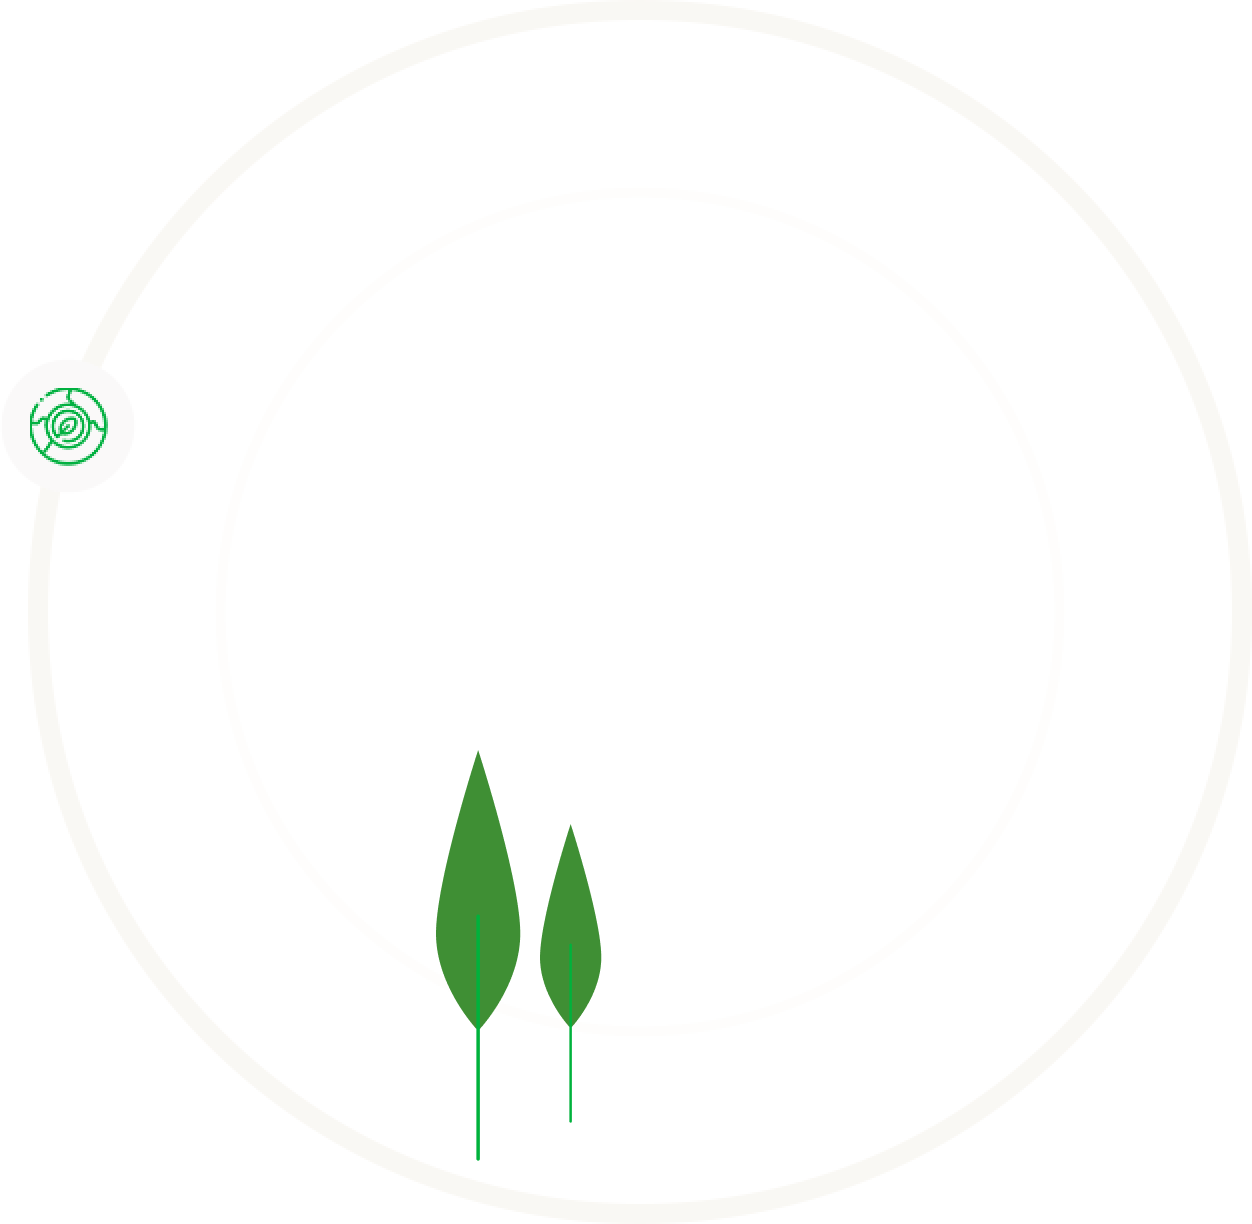
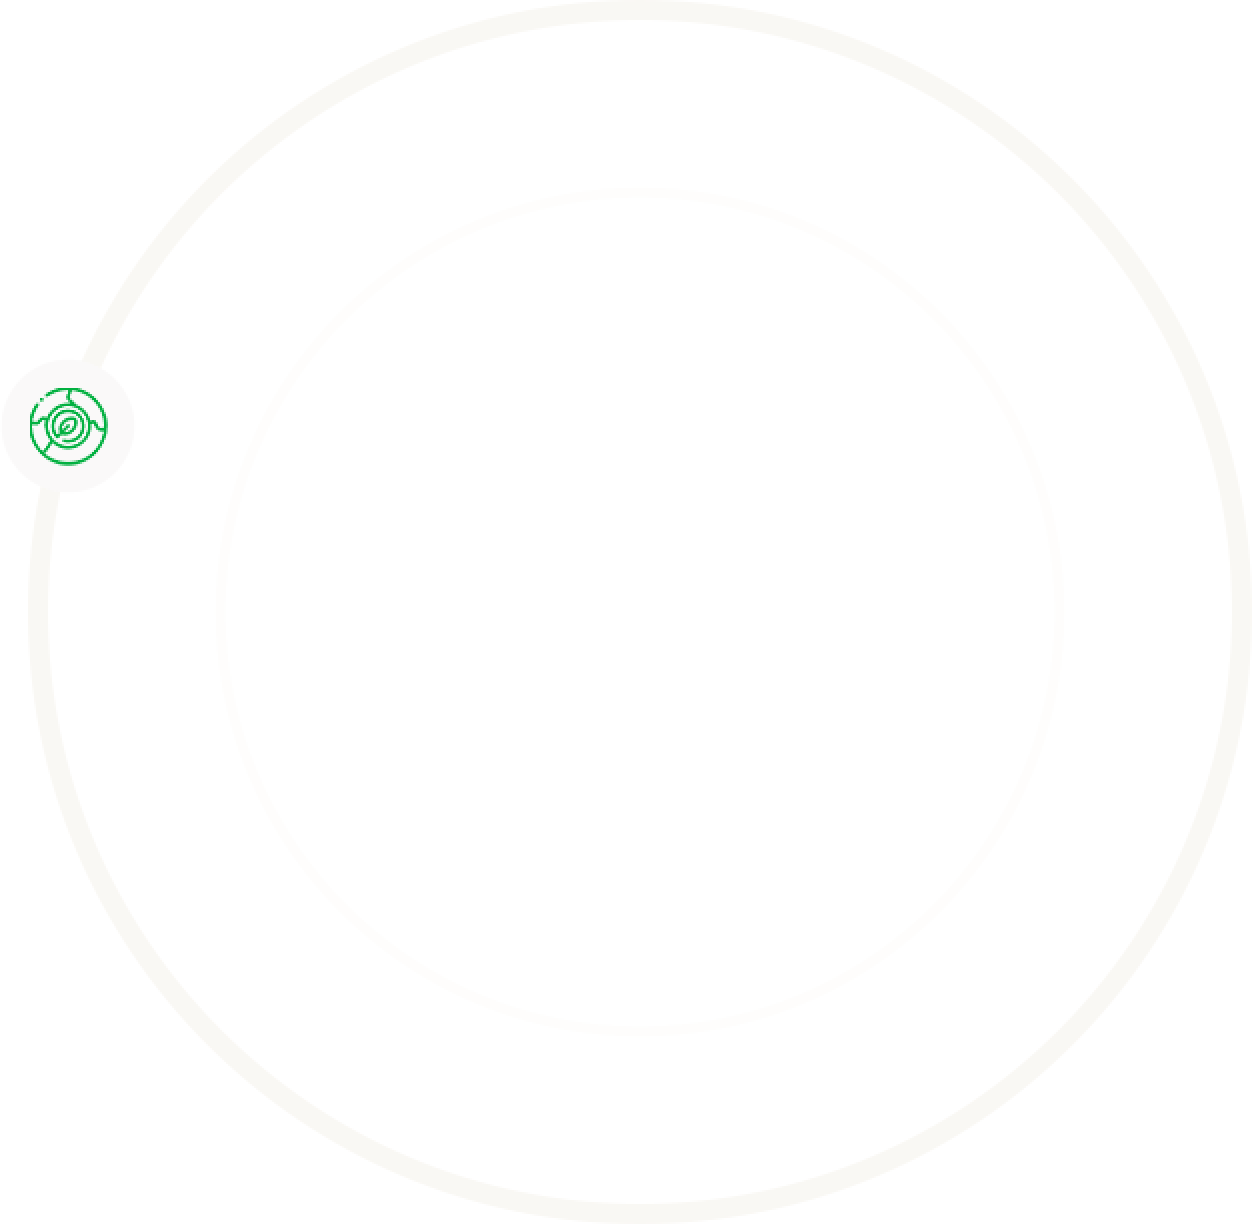
finished hero slider

Changed region(s): [[0.3427, 0.6209, 0.4984, 0.9314]]

diff --git a/src/components/Hero/HeroSlider.tsx b/src/components/Hero/HeroSlider.tsx
@@ -16,6 +16,10 @@ import houseTwo from "../../../public/assets/images/hero/house-2.png";
 import houseOne from "../../../public/assets/images/hero/house-1.png";
 import treeOne from "../../../public/assets/images/hero/tree-1.png";
 import treeTwo from "../../../public/assets/images/hero/tree-2.png";
+import circle from "../../../public/assets/images/hero/circle.png";
+import panel from "../../../public/assets/images/hero/panel.png";
+import doubleTree from "../../../public/assets/images/hero/double-tree.png";
+import sun from "../../../public/assets/images/hero/sun.png";
 
 // interface HeroSliderProps {
 //   timeline: "to" | "from";
@@ -26,7 +30,7 @@ const HeroSlider: React.FC = () => {
     <div className="lg:absolute hero-slider-wrapper mt-16 lg:mt-10 -top-[40px] left-0 z-0">
       <Swiper
         slidesPerView={1}
-        className="h-[582px]"
+        className="lg:h-[582px] h-[512px]"
         direction="horizontal"
         modules={[Navigation, Pagination]}
         pagination={{
@@ -41,16 +45,52 @@ const HeroSlider: React.FC = () => {
         navigation={{ nextEl: "#next-hero", prevEl: "#prev-hero" }}
       >
         <SwiperSlide>
-          <div className="absolute -right-[190px] top-0 group-hover:right-0 transition-all duration-1000 ease-in-out">
+          <div className="absolute lg:-right-[69px] right-[219px] lg:-bottom-[138px] -bottom-[55px] lg:group-hover:right-[11px] lg:group-hover:rotate-[30deg] transition-all duration-1000 ease-in-out">
+            <Image
+              loading="eager"
+              src={circle}
+              alt="Circle"
+              quality={100}
+              className="lg:h-[612px] lg:w-[626px] min-w-[477px] min-h-[477px] w-[477px] h-[477px]"
+            />
+          </div>
+          <div className="absolute hidden lg:block right-[256px] -bottom-[106px] transition-all duration-1000 ease-in-out">
+            <Image
+              loading="eager"
+              src={doubleTree}
+              alt="Double Tree"
+              quality={100}
+              className="h-[205px] w-[82px]"
+            />
+          </div>
+          <div className="absolute lg:-right-[317px] -right-[140px] bottom-[133px] lg:group-hover:-right-[180px] transition-all duration-1000 ease-in-out">
+            <Image
+              loading="eager"
+              src={panel}
+              alt="Panel"
+              quality={100}
+              className="lg:h-[151px] lg:w-[507px] min-w-[395px] min-h-[118px] w-[395px] h-[118px]"
+            />
+          </div>
+          <div className="absolute hidden lg:block right-[355px] top-[106px] group-hover:right-[25px] group-hover:scale-[1.23] transition-all duration-1000 ease-in-out">
+            <Image
+              loading="eager"
+              src={sun}
+              alt="Sol"
+              quality={100}
+              className="h-[168px] w-[168px]"
+            />
+          </div>
+          <div className="absolute -right-[190px] lg:top-0 lg:bottom-auto bottom-0 lg:group-hover:right-[71px] group-hover:-right-[40px] transition-all duration-1000 ease-in-out">
             <Image
               loading="eager"
               src={zezeDiCamargo}
               alt="Zezé di Camargo"
               quality={100}
-              className="h-[582px] w-[597px]"
+              className="lg:h-[582px] lg:w-[597px] min-w-[502px] min-h-[489px] w-[502px] h-[489px]"
             />
           </div>
-          <div className="absolute left-[156px] top-[106px] group-hover:left-[30px] group-hover:scale-125 transition-all duration-1000 ease-in-out">
+          <div className="absolute hidden lg:block left-[156px] top-[106px] group-hover:left-[30px] group-hover:scale-125 transition-all duration-1000 ease-in-out">
             <Image
               loading="eager"
               src={cloudOne}
@@ -59,7 +99,7 @@ const HeroSlider: React.FC = () => {
               className="h-[36px] w-[129px]"
             />
           </div>
-          <div className="absolute right-[563px] top-[81px] group-hover:top-[83px] group-hover:right-[526px] transition-all duration-1000 ease-in-out">
+          <div className="absolute hidden lg:block right-[563px] top-[81px] group-hover:top-[83px] group-hover:right-[526px] transition-all duration-1000 ease-in-out">
             <Image
               loading="eager"
               src={cloudTwo}
@@ -68,7 +108,7 @@ const HeroSlider: React.FC = () => {
               className="h-[27px] w-[97px]"
             />
           </div>
-          <div className="absolute -left-[32px] -bottom-[183px] group-hover:-bottom-[166px] transition-all duration-1000 ease-in-out">
+          <div className="absolute hidden lg:block -left-[32px] -bottom-[183px] group-hover:-bottom-[166px] transition-all duration-1000 ease-in-out">
             <Image
               loading="eager"
               src={houseFour}
@@ -77,7 +117,7 @@ const HeroSlider: React.FC = () => {
               className="h-[476px] w-[395px]"
             />
           </div>
-          <div className="absolute -left-[35px] bottom-[77px] group-hover:-left-[18px] transition-all duration-1000 ease-in-out">
+          <div className="absolute hidden lg:block -left-[35px] bottom-[77px] group-hover:-left-[18px] transition-all duration-1000 ease-in-out">
             <Image
               loading="eager"
               src={treeOne}
@@ -86,7 +126,7 @@ const HeroSlider: React.FC = () => {
               className="h-[307px] w-[63px]"
             />
           </div>
-          <div className="absolute -left-[7px] -bottom-[121px] group-hover:-bottom-[93px] transition-all duration-1000 ease-in-out">
+          <div className="absolute hidden lg:block -left-[7px] -bottom-[121px] group-hover:-bottom-[93px] transition-all duration-1000 ease-in-out">
             <Image
               loading="eager"
               src={houseThree}
@@ -95,7 +135,7 @@ const HeroSlider: React.FC = () => {
               className="h-[271px] w-[319px]"
             />
           </div>
-          <div className="absolute left-[342px] -bottom-[37px] group-hover:-bottom-[3px] transition-all duration-1000 ease-in-out">
+          <div className="absolute hidden lg:block left-[342px] -bottom-[37px] group-hover:-bottom-[3px] transition-all duration-1000 ease-in-out">
             <Image
               loading="eager"
               src={treeTwo}
@@ -104,7 +144,7 @@ const HeroSlider: React.FC = () => {
               className="h-[197px] w-[40px]"
             />
           </div>
-          <div className="absolute right-[450px] -bottom-[162px] group-hover:-bottom-[119px] transition-all duration-1000 ease-in-out">
+          <div className="absolute hidden lg:block right-[450px] -bottom-[162px] group-hover:-bottom-[119px] transition-all duration-1000 ease-in-out">
             <Image
               loading="eager"
               src={houseOne}
@@ -113,7 +153,7 @@ const HeroSlider: React.FC = () => {
               className="h-[363px] w-[339px]"
             />
           </div>
-          <div className="absolute left-[410px] -bottom-[109px] group-hover:-bottom-[90px] transition-all duration-1000 ease-in-out">
+          <div className="absolute hidden lg:block left-[410px] -bottom-[109px] group-hover:-bottom-[90px] transition-all duration-1000 ease-in-out">
             <Image
               loading="eager"
               src={houseTwo}

diff --git a/src/app/globals.css b/src/app/globals.css
@@ -26,7 +26,7 @@ a {
 }
 
 .hero-slider-wrapper {
-  @apply w-full min-h-[582px];
+  @apply w-full lg:min-h-[582px] min-h-[512px];
 }
 
 .header-blur {
@@ -86,7 +86,7 @@ a {
   @apply group-hover/arrow:translate-x-8 transition-all duration-500 ease-in-out;
 }
 .style-navigation-hero {
-  @apply w-10 h-10 bg-white rounded-full absolute z-20 bottom-[597px] lg:bottom-auto lg:top-[47%] flex-center cursor-pointer text-xl;
+  @apply w-10 h-10 bg-white rounded-full absolute z-20 bottom-[500px] lg:bottom-auto lg:top-[47%] flex-center cursor-pointer text-xl;
 }
 .style-navigation-products {
   @apply w-10 h-10 bg-white rounded-full absolute z-20 -top-16 lg:top-[47%] flex-center cursor-pointer text-xl;

diff --git a/src/components/Hero/Hero.tsx b/src/components/Hero/Hero.tsx
@@ -7,7 +7,7 @@ import { MdChevronLeft, MdChevronRight } from "react-icons/md";
 
 const Hero: React.FC = () => {
   return (
-    <section className="min-h-[1101px] flex flex-col-reverse lg:block lg:min-h-[582px] pt-10 lg:pt-32 bg-hero-green w-full relative group">
+    <section className="min-h-[1000px] flex flex-col-reverse lg:block lg:min-h-[582px] pt-16 lg:pt-32 bg-hero-green w-full relative group">
       <HeroSlider />
       <div className="z-10 relative">
         <GridContainer className="pt-8 lg:pt-[103px] flex-col">
